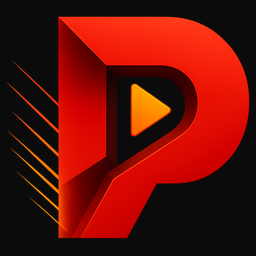
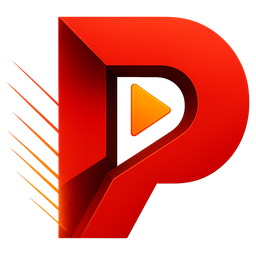
fix(web): use transparent Pleya marks

diff --git a/scripts/gen_brand_assets.py b/scripts/gen_brand_assets.py
@@ -422,12 +422,12 @@ if os.path.exists(old_mark):
 # waren daardoor blijven staan op de oude, handgemaakte P: `app.html`,
 # `NavRail.svelte`, `+layout.svelte`, `login/` en `setup/` tekenden hem nog.
 # Ze horen bij dezelfde autoriteitsketen als de rest en worden hier dus
-# meegegenereerd. De ondoorzichtige merkgrond blijft zoals hij was; alleen de P
-# is die van nu.
+# meegegenereerd. In navigatie en browsericonen zweeft de P op de achtergrond
+# van de gebruiker; een ingebakken merkgrond zou daar een zwart vierkant tonen.
 PW = f"{ROOT}/pleya_web/static/brand"
 if os.path.isdir(os.path.dirname(PW)):
     for s_ in (64, 256):
-        save(mark_canvas(s_, s_, 0.96, BG), f"{PW}/pleya-mark-{s_}.png")
+        save(mark_canvas(s_, s_, 0.96), f"{PW}/pleya-mark-{s_}.png")
     # Het lockup van de kop (northstar `.topnav .brand img`, 30 hoog; mobiel 26)
     # als dezelfde twee lagen als in de app: de P houdt zijn kleuren, de
     # belettering is een masker dat de webkop in de inkt van het thema vult.

diff --git a/docs/qa/2026-11-04-web-transparent-marks.md b/docs/qa/2026-11-04-web-transparent-marks.md
@@ -1,0 +1,9 @@
+# Web: transparante P-markeringen
+
+Roadmap: C-05 / S8. Unified impact: alleen afgeleide Web-merkassets; navigatie, rechten en playback blijven gelijk.
+
+Michel meldde zwarte achtergronden rond de Web-logo’s. De kleine P-bestanden van 64 en 256 pixels hadden volledig ondoorzichtige canvassen (#0B0B0B); de tweelaagse woordmerken waren al transparant. De gedeelde merkgenerator maakt de twee Web-markeringen nu met transparant canvas. Beide PNG’s zijn opnieuw gegenereerd, zonder wijzigingen aan andere platformassets.
+
+Bewijs: beide bestanden gebruiken alpha 0–255 en hebben vier transparante hoeken; dezelfde controle faalt op beide oorspronkelijke HEAD-assets. De vijf bestaande Wordmark/ConsumerSidebar-tests slagen. Browsercontrole gebruikt uitsluitend lokale routes met synthetische catalogus, controleert de gedecodeerde beeldalpha en legt de compacte en uitgeklapte Home-sidebar vast. Bewijsbestanden: `review/web-marks-pixels.log`, `web-marks-tests.log`, `web-marks-browser.log`, `web-marks-home.png`, `web-marks-home-expanded.png` in het taakwerkgebied buiten deze repository.
+
+Release: onafhankelijke review, normale checks/CI en NAS-uitrol volgen de bestaande releaseprocedure. Deze correctie sluit het afzonderlijke macOS-toegankelijkheidsonderzoek of TestFlight niet af.

diff --git a/docs/PLEYA-SERVER-MASTERLIST.md b/docs/PLEYA-SERVER-MASTERLIST.md
@@ -631,3 +631,5 @@ S14/S18-werk; de bestaande serverclaims worden hierdoor niet heropend en native
 platform-/hardwareacceptatie blijft afzonderlijk.
 
 4 november 2026 — C-05/S8 Web-Home/tvOS-richting lokaal gebouwd na Michels visueel akkoord en opdracht tot TestFlight/NAS. Carrousel/echte filmselectie/hervatpositie/sidebarstyling behouden capabilities en itemidentiteit;28 gerichte Webtests, echte browserroutes en negatieve hervatcontrole, onafhankelijke fixreview. [Bewijs en grenzen](qa/2026-11-04-web-tvos-billboard.md). S8 blijft gedeeltelijk: normale mainCI/merge/NASacceptatie nog open; native macOS-resizeonderzoek en TestFlight zijn afzonderlijk niet afgerond.
+
+4 november 2026 — C-05/S8: de Web-Home-update is via PR588 gemerged (11913eb31), alle drie mainCI-workflows groen en na expliciet productieakkoord uitgerold naar NAS-test en productie. Beide containers gezond; hero-JS/CSS gelijk. Kleine Web-P-logo’s bleken een zwarte achtergrond ingebakken te hebben; de generator en twee PNG’s zijn transparant hersteld. [Correctie en bewijs](qa/2026-11-04-web-transparent-marks.md). Deze logocorrectie wacht nog op normale merge/uitrol; macOS/TestFlight blijft afzonderlijk open wegens reproduceerbare Flutter-toegankelijkheidsfouten bij vensterresizes.
